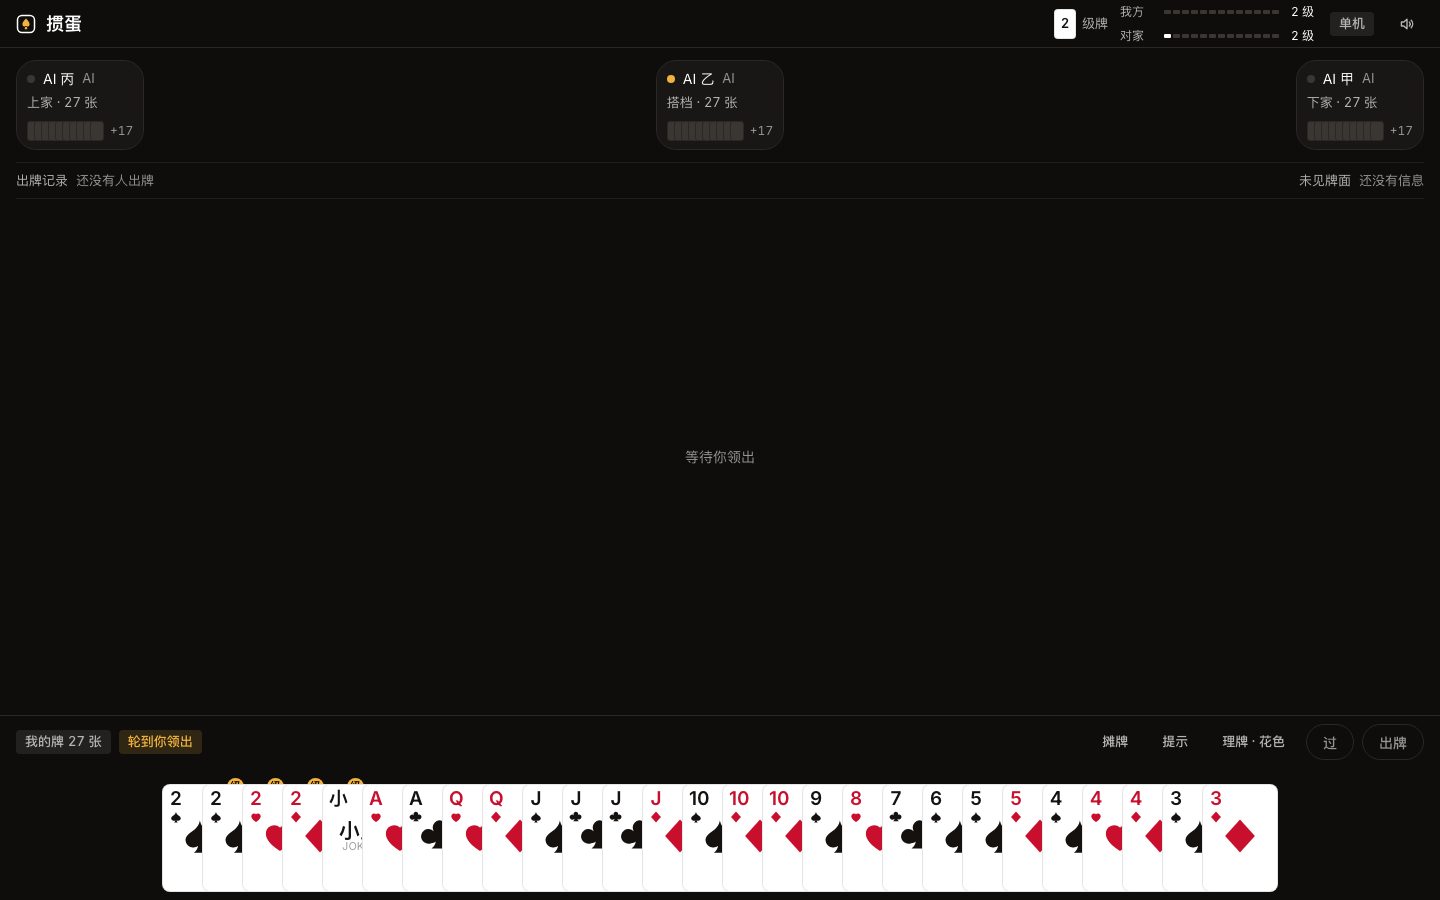
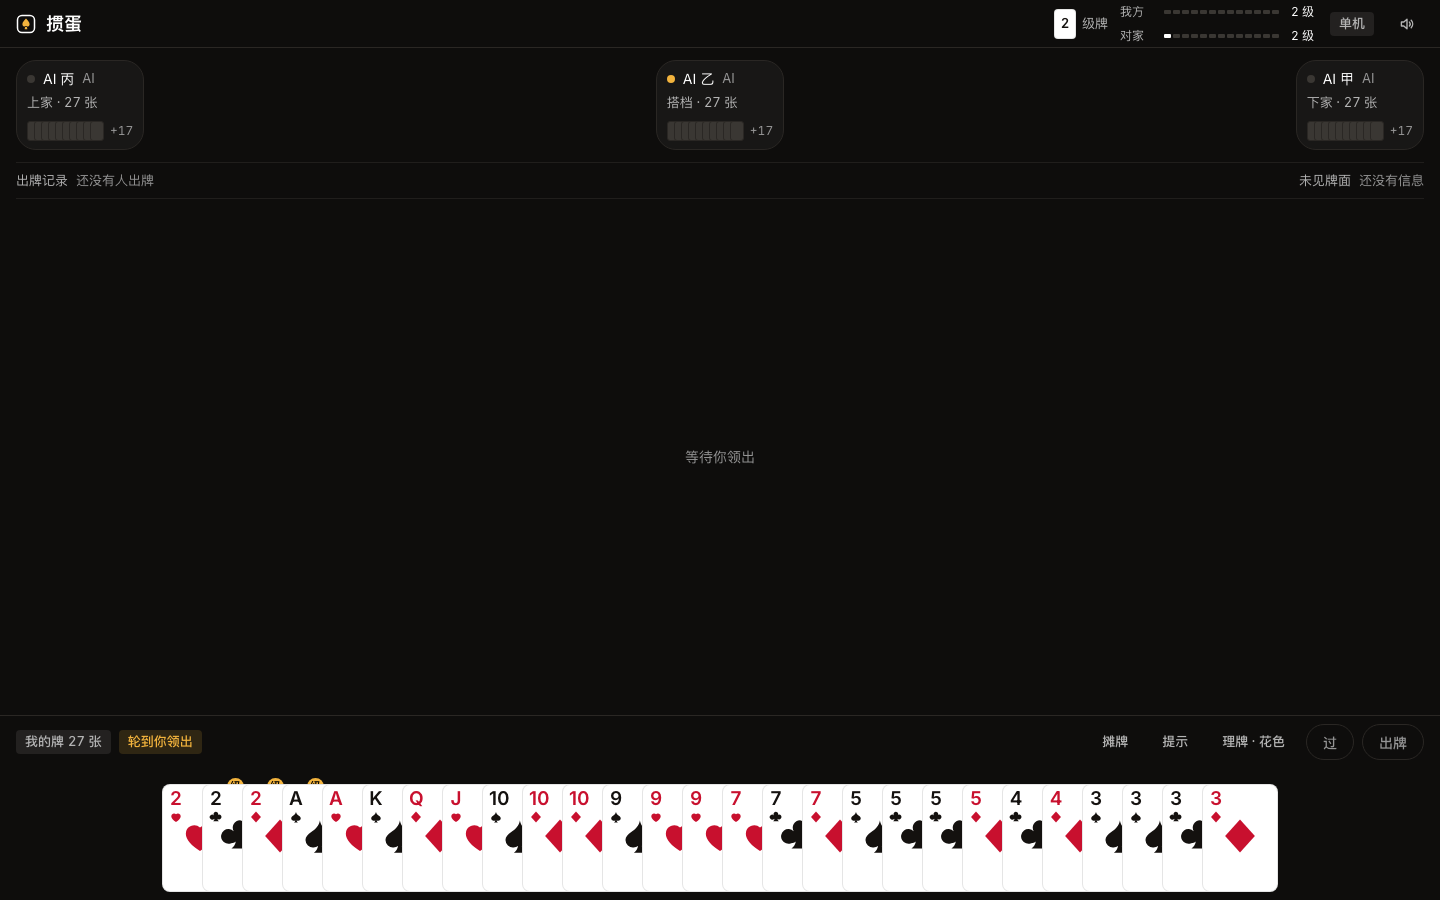
chore(ui): 门面三张牌与桌面出的牌放大一档（xs → sm）

Changed region(s): [[0.125, 0.8711, 0.625, 0.9644], [0.6562, 0.8711, 0.8438, 0.9644]]

diff --git a/src/ui/Table.tsx b/src/ui/Table.tsx
@@ -302,7 +302,7 @@ export function Table() {
               <div className="flex flex-wrap items-end justify-center gap-1.5">
                 {centerCards.map((c) => (
                   <div key={c.id} className="animate-pop">
-                    <CardFace card={c} size="xs" />
+                    <CardFace card={c} size="sm" />
                   </div>
                 ))}
               </div>

diff --git a/src/ui/Lobby.tsx b/src/ui/Lobby.tsx
@@ -90,7 +90,7 @@ export function Lobby() {
         <div className="panel p-5">
           <div className="flex items-end gap-1.5">
             {MOTIF.map((c) => (
-              <CardFace key={c.id} card={c} size="xs" />
+              <CardFace key={c.id} card={c} size="sm" />
             ))}
           </div>
           <h2 className="mt-5 text-base text-ink">玩法速览</h2>
